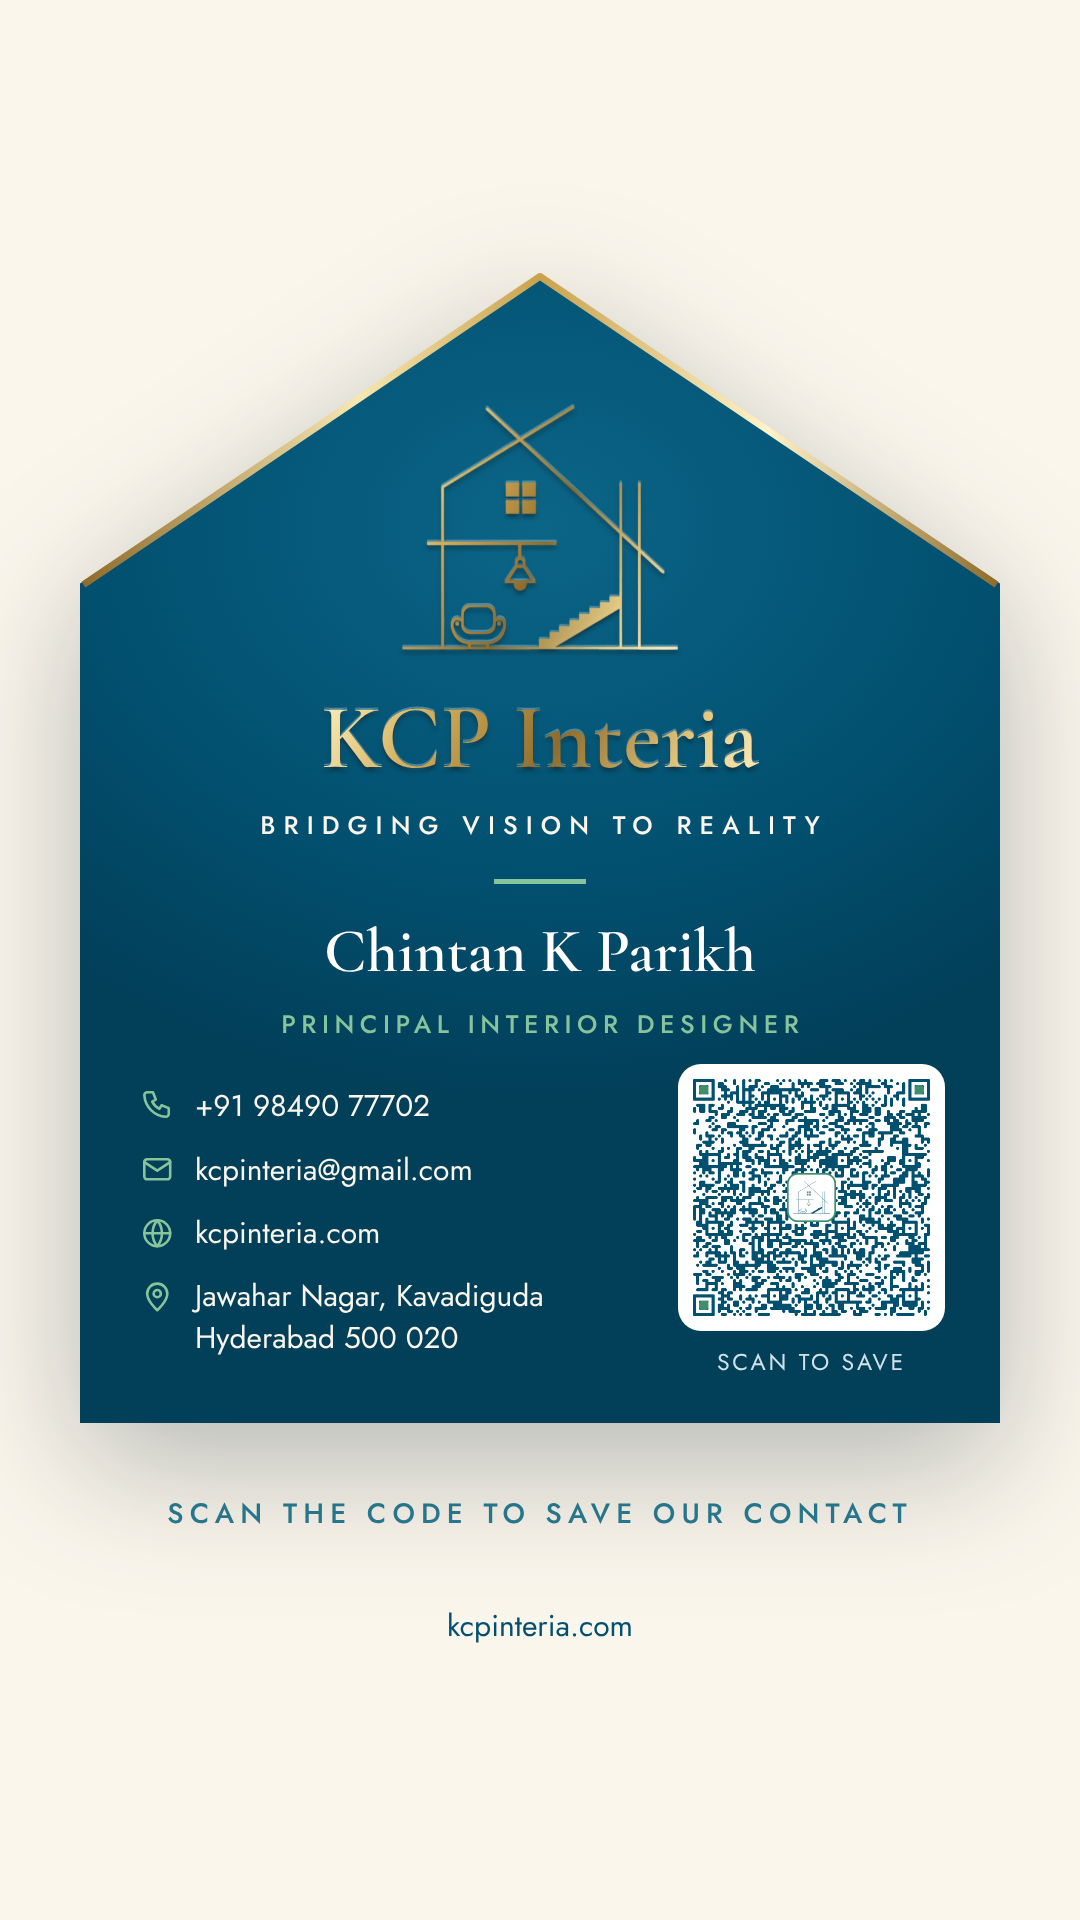
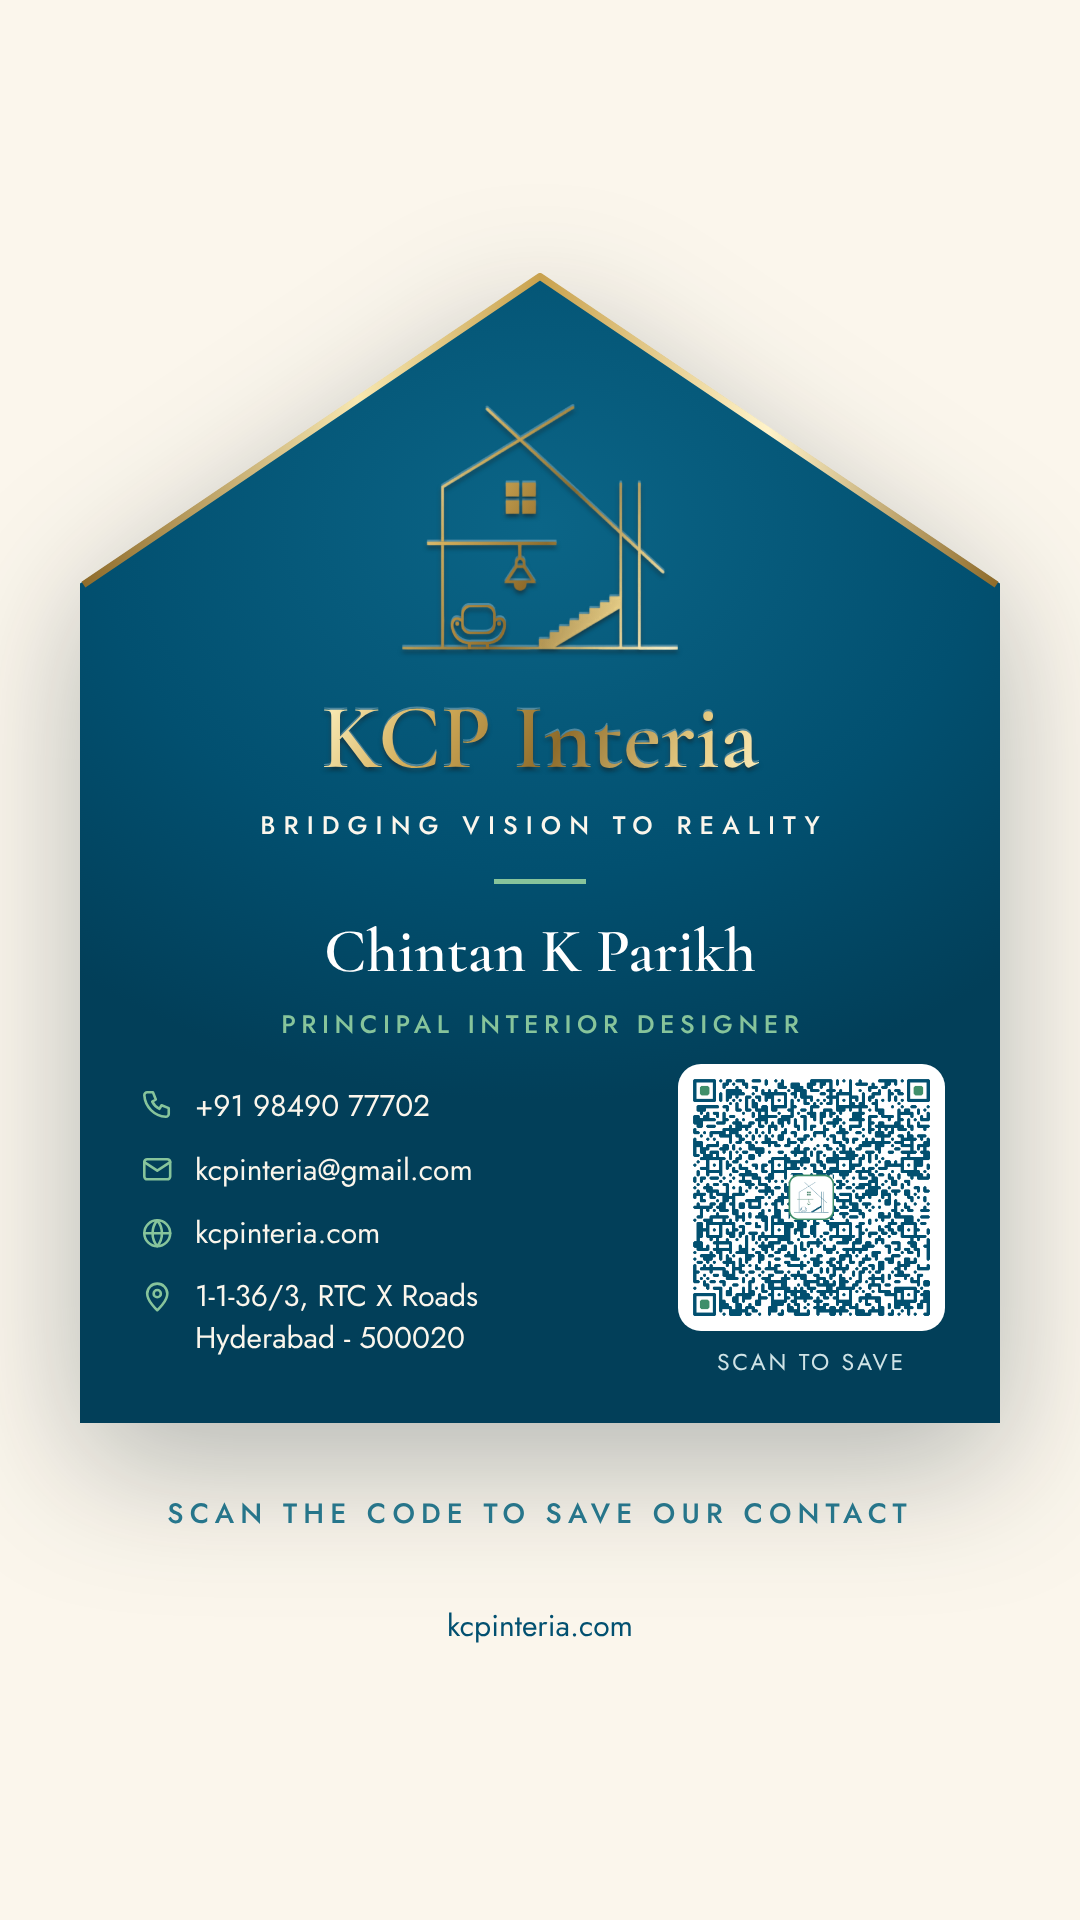
Add files via upload

Changed region(s): [[0.6417, 0.5625, 0.8861, 0.6875], [0.1833, 0.6562, 0.4889, 0.7188]]

diff --git a/contact.html b/contact.html
@@ -94,9 +94,8 @@
                         <div class="contact-icon"><svg width="22" height="22" viewBox="0 0 24 24" fill="none" stroke="currentColor" stroke-width="1.8" stroke-linecap="round" stroke-linejoin="round" aria-hidden="true"><path d="M12 21s-7-6.2-7-11.5a7 7 0 0 1 14 0C19 14.8 12 21 12 21z"></path><circle cx="12" cy="9.5" r="2.5"></circle></svg></div>
                         <div>
                             <strong>Visit Our Studio</strong><br>
-                            1-1-36/3, RTC X Road<br>
-                            Jawahar Nagar, Kavadiguda<br>
-                            Hyderabad 500 020
+                            1-1-36/3, RTC X Roads<br>
+                            Hyderabad, Telangana - 500020
                         </div>
                     </div>
                 </div>
@@ -149,7 +148,7 @@
         </div>
         <div class="kcp-card-grid">
             <div class="kcp-cardbox">
-                <div class="kcp-cardstage" id="kcpCardStage" role="img" aria-label="KCP Interia contact card: Chintan K Parikh, Principal Interior Designer, +91 98490 77702, kcpinteria@gmail.com, Jawahar Nagar, Kavadiguda, Hyderabad 500 020">
+                <div class="kcp-cardstage" id="kcpCardStage" role="img" aria-label="KCP Interia contact card: Chintan K Parikh, Principal Interior Designer, +91 98490 77702, kcpinteria@gmail.com, 1-1-36/3, RTC X Roads, Hyderabad - 500020">
 <div class="kr-panel" style="position: absolute; left: 0; top: 0; width: 400px; height: 500px; background: radial-gradient(ellipse 70% 60% at 50% 45%, #0B6587 0%, #025070 70%); overflow: hidden">
 <div class="kr-room" style="position: absolute; left: 0; top: 0; width: 400px; height: 500px">
 <svg aria-hidden="true" width="400" height="500" viewBox="0 0 400 500" fill="none" stroke="#E9F2F0" stroke-linecap="round" stroke-linejoin="round" stroke-width="1.8">
@@ -277,7 +276,7 @@
 <div style="display: flex; align-items: center; gap: 9px"><svg aria-hidden="true" width="15" height="15" viewBox="0 0 24 24" fill="none" stroke="#87C49B" stroke-width="1.8" stroke-linecap="round" stroke-linejoin="round"><path d="M5 3h4l2 5-2.5 1.5a11 11 0 0 0 5 5L15 12l5 2v4a2 2 0 0 1-2 2A16 16 0 0 1 3 5a2 2 0 0 1 2-2z"></path></svg><span>+91 98490 77702</span></div>
 <div style="display: flex; align-items: center; gap: 9px"><svg aria-hidden="true" width="15" height="15" viewBox="0 0 24 24" fill="none" stroke="#87C49B" stroke-width="1.8" stroke-linecap="round" stroke-linejoin="round"><rect x="3" y="5" width="18" height="14" rx="2"></rect><path d="M3 7l9 6 9-6"></path></svg><span>kcpinteria@gmail.com</span></div>
 <div style="display: flex; align-items: center; gap: 9px"><svg aria-hidden="true" width="15" height="15" viewBox="0 0 24 24" fill="none" stroke="#87C49B" stroke-width="1.8" stroke-linecap="round" stroke-linejoin="round"><circle cx="12" cy="12" r="9"></circle><path d="M3 12h18M12 3a14 14 0 0 1 0 18M12 3a14 14 0 0 0 0 18"></path></svg><span>kcpinteria.com</span></div>
-<div style="display: flex; align-items: flex-start; gap: 9px"><svg aria-hidden="true" width="15" height="15" viewBox="0 0 24 24" fill="none" stroke="#87C49B" stroke-width="1.8" stroke-linecap="round" stroke-linejoin="round" style="margin-top: 2px"><path d="M12 21s-7-6.2-7-11.5a7 7 0 0 1 14 0C19 14.8 12 21 12 21z"></path><circle cx="12" cy="9.5" r="2.5"></circle></svg><span style="line-height: 1.4">Jawahar Nagar, Kavadiguda<br>Hyderabad 500 020</span></div>
+<div style="display: flex; align-items: flex-start; gap: 9px"><svg aria-hidden="true" width="15" height="15" viewBox="0 0 24 24" fill="none" stroke="#87C49B" stroke-width="1.8" stroke-linecap="round" stroke-linejoin="round" style="margin-top: 2px"><path d="M12 21s-7-6.2-7-11.5a7 7 0 0 1 14 0C19 14.8 12 21 12 21z"></path><circle cx="12" cy="9.5" r="2.5"></circle></svg><span style="line-height: 1.4">1-1-36/3, RTC X Roads<br>Hyderabad - 500020</span></div>
 </div>
 <div style="display: flex; flex-direction: column; align-items: center; gap: 6px">
 <div style="width: 116px; height: 116px; background: #FFFFFF; border-radius: 10px; display: flex; align-items: center; justify-content: center"><img src="images/card/kcp-card-qr.png" alt="QR code: scan with your phone camera to save the KCP Interia contact" style="width: 106px; height: 106px; display: block"></div>
@@ -357,9 +356,8 @@
                 <h4>Get In Touch</h4>
                 <p>kcpinteria@gmail.com</p>
                 <p>+91 98490 77702</p>
-                <p>1-1-36/3, RTC X Road<br>
-                   Jawahar Nagar, Kavadiguda<br>
-                   Hyderabad 500 020</p>
+                <p>1-1-36/3, RTC X Roads<br>
+                   Hyderabad, Telangana - 500020</p>
             </div>
         </div>
         <div class="footer-bottom">

diff --git a/about.html b/about.html
@@ -228,9 +228,8 @@
                 <h4>Get In Touch</h4>
                 <p>kcpinteria@gmail.com</p>
                 <p>+91 98490 77702</p>
-                <p>1-1-36/3, RTC X Road<br>
-                   Jawahar Nagar, Kavadiguda<br>
-                   Hyderabad 500 020</p>
+                <p>1-1-36/3, RTC X Roads<br>
+                   Hyderabad, Telangana - 500020</p>
             </div>
         </div>
         <div class="footer-bottom">

diff --git a/index.html b/index.html
@@ -205,9 +205,8 @@
                 <h4>Get In Touch</h4>
                 <p>kcpinteria@gmail.com</p>
                 <p>+91 98490 77702</p>
-                <p>1-1-36/3, RTC X Road<br>
-                   Jawahar Nagar, Kavadiguda<br>
-                   Hyderabad 500 020</p>
+                <p>1-1-36/3, RTC X Roads<br>
+                   Hyderabad, Telangana - 500020</p>
             </div>
         </div>
         <div class="footer-bottom">

diff --git a/services.html b/services.html
@@ -238,9 +238,8 @@
                 <h4>Get In Touch</h4>
                 <p>kcpinteria@gmail.com</p>
                 <p>+91 98490 77702</p>
-                <p>1-1-36/3, RTC X Road<br>
-                   Jawahar Nagar, Kavadiguda<br>
-                   Hyderabad 500 020</p>
+                <p>1-1-36/3, RTC X Roads<br>
+                   Hyderabad, Telangana - 500020</p>
             </div>
         </div>
         <div class="footer-bottom">

diff --git a/work.html b/work.html
@@ -188,9 +188,8 @@
                 <h4>Get In Touch</h4>
                 <p>kcpinteria@gmail.com</p>
                 <p>+91 98490 77702</p>
-                <p>1-1-36/3, RTC X Road<br>
-                   Jawahar Nagar, Kavadiguda<br>
-                   Hyderabad 500 020</p>
+                <p>1-1-36/3, RTC X Roads<br>
+                   Hyderabad, Telangana - 500020</p>
             </div>
         </div>
         <div class="footer-bottom">
